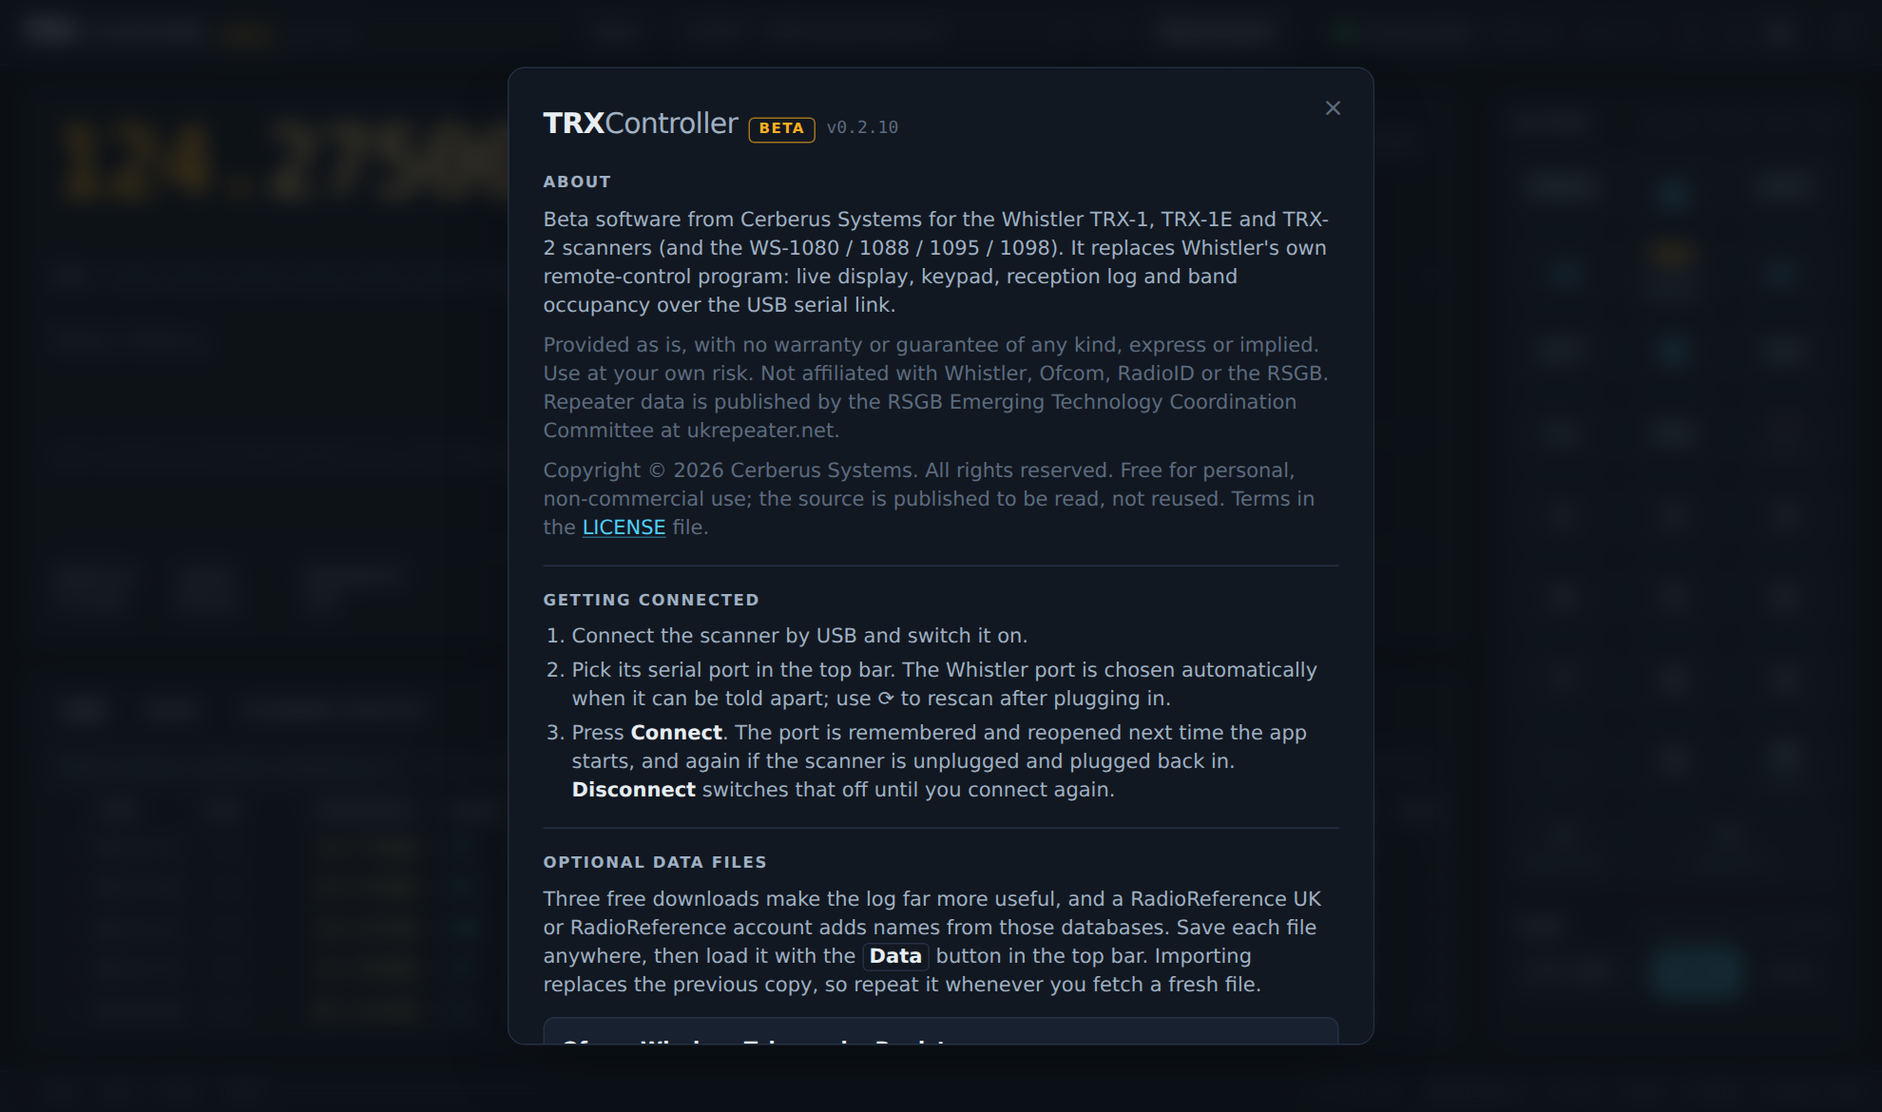
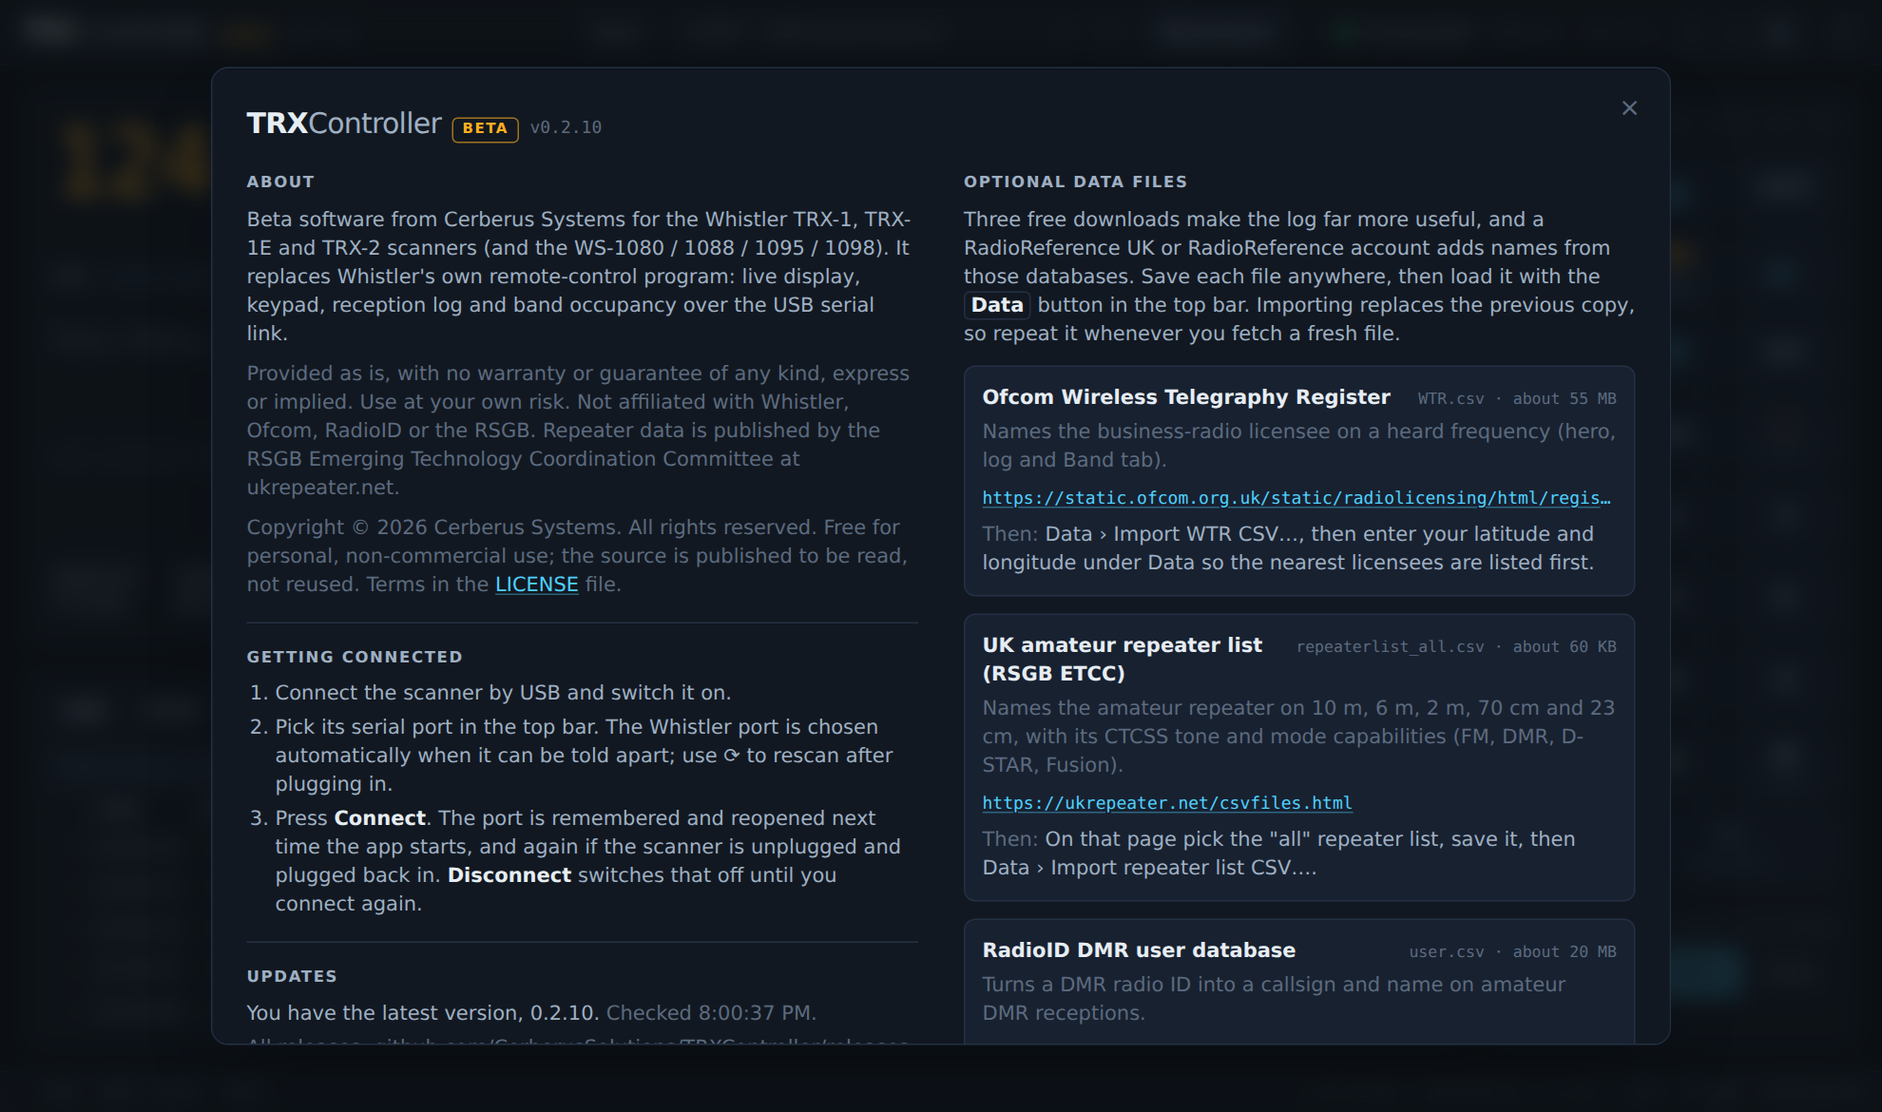
Help screen in two columns so it needs less scrolling
The help dialog is 64rem wide with the sections in two columns like
the Data dialog: About, Getting connected, Updates, Keyboard and the
EZ Scan export on the left, the three data-file cards on the right.
Website help screenshot re-shot.

Claude-Session: https://claude.ai/code/session_015KGVaMSLRV6V5Jci2arzek

Changed region(s): [[0.1232, 0.1538, 0.8934, 0.9538], [0.1232, 0.0923, 0.4621, 0.1538]]

diff --git a/src/renderer/src/components/HelpDialog.tsx b/src/renderer/src/components/HelpDialog.tsx
@@ -80,7 +80,7 @@ export default function HelpDialog() {
         role="dialog"
         aria-modal="true"
         aria-labelledby="help-title"
-        className="relative max-h-[88vh] w-full max-w-[38rem] overflow-y-auto rounded-xl border border-edge bg-panel p-6 text-sm text-ink-2 shadow-2xl"
+        className="relative max-h-[88vh] w-full max-w-[64rem] overflow-y-auto rounded-xl border border-edge bg-panel p-6 text-sm text-ink-2 shadow-2xl"
       >
         <button
           className="absolute top-3 right-3 flex h-8 w-8 items-center justify-center rounded-md text-lg text-ink-3 hover:bg-panel-2 hover:text-ink"
@@ -99,167 +99,171 @@ export default function HelpDialog() {
           {app && <span className="font-mono text-xs text-ink-3">v{app.version}</span>}
         </div>
 
-        <div className="space-y-4">
-          <Section title="About">
-            <p>
-              Beta software from {PUBLISHER} for the Whistler TRX-1, TRX-1E and TRX-2 scanners (and the WS-1080 / 1088 / 1095 / 1098). It
-              replaces Whistler's own remote-control program: live display, keypad, reception log and band occupancy over the USB serial link.
-            </p>
-            <p className="mt-2 text-ink-3">
-              Provided as is, with no warranty or guarantee of any kind, express or implied. Use at your own risk. Not affiliated with Whistler,
-              Ofcom, RadioID or the RSGB. Repeater data is published by the RSGB Emerging Technology Coordination Committee at ukrepeater.net.
-            </p>
-            <p className="mt-2 text-ink-3">
-              Copyright © 2026 {PUBLISHER}. All rights reserved. Free for personal, non-commercial use; the source is published to be read, not
-              reused. Terms in the{' '}
-              <a className="text-cyan underline decoration-cyan/40 underline-offset-2" href={`${REPO_URL}/blob/main/LICENSE`} target="_blank" rel="noreferrer">
-                LICENSE
-              </a>{' '}
-              file.
-            </p>
-          </Section>
+        {/* Two columns, balanced so neither needs much scrolling: the data files, the long one, on the right. */}
+        <div className="grid gap-x-8 gap-y-4 md:grid-cols-2">
+          <div className="space-y-4">
+            <Section title="About">
+              <p>
+                Beta software from {PUBLISHER} for the Whistler TRX-1, TRX-1E and TRX-2 scanners (and the WS-1080 / 1088 / 1095 / 1098). It
+                replaces Whistler's own remote-control program: live display, keypad, reception log and band occupancy over the USB serial link.
+              </p>
+              <p className="mt-2 text-ink-3">
+                Provided as is, with no warranty or guarantee of any kind, express or implied. Use at your own risk. Not affiliated with Whistler,
+                Ofcom, RadioID or the RSGB. Repeater data is published by the RSGB Emerging Technology Coordination Committee at ukrepeater.net.
+              </p>
+              <p className="mt-2 text-ink-3">
+                Copyright © 2026 {PUBLISHER}. All rights reserved. Free for personal, non-commercial use; the source is published to be read, not
+                reused. Terms in the{' '}
+                <a className="text-cyan underline decoration-cyan/40 underline-offset-2" href={`${REPO_URL}/blob/main/LICENSE`} target="_blank" rel="noreferrer">
+                  LICENSE
+                </a>{' '}
+                file.
+              </p>
+            </Section>
 
-          <Section title="Getting connected">
-            <ol className="list-decimal space-y-1 pl-5">
-              <li>Connect the scanner by USB and switch it on.</li>
-              <li>
-                Pick its serial port in the top bar. The Whistler port is chosen automatically when it can be told apart; use ⟳ to rescan after plugging
-                in.
-                {IS_LINUX && (
-                  <>
-                    {' '}
-                    On Linux it appears as <span className="font-mono text-ink">/dev/ttyUSB0</span> or <span className="font-mono text-ink">/dev/ttyACM0</span>, and your
-                    user must be in the <span className="font-mono text-ink">dialout</span> group to open it (<span className="font-mono text-ink">sudo usermod -aG dialout $USER</span>,
-                    then log in again).
-                  </>
-                )}
-              </li>
-              <li>
-                Press <b className="text-ink">Connect</b>. The port is remembered and reopened next time the app starts, and again if the scanner is
-                unplugged and plugged back in. <b className="text-ink">Disconnect</b> switches that off until you connect again.
-              </li>
-            </ol>
-          </Section>
+            <Section title="Getting connected">
+              <ol className="list-decimal space-y-1 pl-5">
+                <li>Connect the scanner by USB and switch it on.</li>
+                <li>
+                  Pick its serial port in the top bar. The Whistler port is chosen automatically when it can be told apart; use ⟳ to rescan after plugging
+                  in.
+                  {IS_LINUX && (
+                    <>
+                      {' '}
+                      On Linux it appears as <span className="font-mono text-ink">/dev/ttyUSB0</span> or <span className="font-mono text-ink">/dev/ttyACM0</span>, and your
+                      user must be in the <span className="font-mono text-ink">dialout</span> group to open it (<span className="font-mono text-ink">sudo usermod -aG dialout $USER</span>,
+                      then log in again).
+                    </>
+                  )}
+                </li>
+                <li>
+                  Press <b className="text-ink">Connect</b>. The port is remembered and reopened next time the app starts, and again if the scanner is
+                  unplugged and plugged back in. <b className="text-ink">Disconnect</b> switches that off until you connect again.
+                </li>
+              </ol>
+            </Section>
 
-          <Section title="Optional data files">
-            <p className="mb-3">
-              Three free downloads make the log far more useful, and a RadioReference UK or RadioReference account adds names from those databases. Save each file anywhere, then load it with the{' '}
-              <b className="rounded border border-edge px-1 py-px text-ink">Data</b> button in the top bar. Importing replaces the previous copy, so
-              repeat it whenever you fetch a fresh file.
-            </p>
-            <ul className="space-y-3">
-              {DATA_SOURCES.map((d) => (
-                <li key={d.file} className="rounded-lg border border-edge bg-panel-2 p-3">
+            <Section title="Updates">
+              {update ? (
+                update.newer ? (
+                  <p>
+                    <b className="text-green">Version {update.latest} is available</b> (you have {update.current}). Download the new{' '}
+                    {IS_LINUX ? 'AppImage (or the .deb from the release page)' : 'installer'} and run it; settings, log and imported data are kept.{' '}
+                    <a className="text-cyan underline decoration-cyan/40 underline-offset-2" href={update.downloadUrl ?? update.url} target="_blank" rel="noreferrer">
+                      {update.downloadUrl ? 'Download ' + (update.downloadUrl.split('/').pop() ?? 'the installer') : 'Open the release page'}
+                    </a>
+                  </p>
+                ) : (
+                  <p>
+                    You have the latest version, {update.current}.
+                    <span className="text-ink-3"> Checked {new Date(update.checkedAt).toLocaleTimeString()}.</span>
+                  </p>
+                )
+              ) : (
+                <p className="text-ink-3">Not checked yet, or GitHub could not be reached. The app looks shortly after launch and every six hours.</p>
+              )}
+              <p className="mt-1 text-ink-3">
+                All releases:{' '}
+                <a className="underline decoration-ink-3/40 underline-offset-2" href="https://github.com/CerberusSolutions/TRXController/releases" target="_blank" rel="noreferrer">
+                  github.com/CerberusSolutions/TRXController/releases
+                </a>
+              </p>
+            </Section>
+
+            <Section title="Keyboard and tuning">
+              <p>
+                The keypad follows the keyboard while the scanner is connected: arrow keys, <kbd className="font-mono text-ink">Enter</kbd> for SEL,{' '}
+                <kbd className="font-mono text-ink">Esc</kbd> for MENU, <kbd className="font-mono text-ink">0-9</kbd> and{' '}
+                <kbd className="font-mono text-ink">.</kbd>. Hover a key for its shortcut.
+              </p>
+              <p className="mt-2">
+                Click a bar on the Band tab, a frequency in the log, or type one into the Tune box under the keypad, and the app walks the
+                scanner's own menus (Searches › Tune Mode) to tune there. <b className="text-ink">Scan</b> takes it back to scanning.
+              </p>
+            </Section>
+
+            <Section title="Log export for EZ Scan">
+              <p>
+                The log's <b className="text-ink">CSV</b> button writes a file Whistler's EZ Scan imports as conventional objects (its CSV import):
+                one object per frequency and tone or colour code, named from the log (16 characters, EZ Scan's limit), with the mode, tone or
+                NAC, colour code and slot filled in and no scanlist ticked, so a session's finds go into the scanner without retyping. The log's
+                own columns (times, sources, distance, candidates) follow EZ Scan's and are ignored by its importer.
+              </p>
+            </Section>
+          </div>
+          <div className="space-y-4">
+            <Section title="Optional data files">
+              <p className="mb-3">
+                Three free downloads make the log far more useful, and a RadioReference UK or RadioReference account adds names from those databases. Save each file anywhere, then load it with the{' '}
+                <b className="rounded border border-edge px-1 py-px text-ink">Data</b> button in the top bar. Importing replaces the previous copy, so
+                repeat it whenever you fetch a fresh file.
+              </p>
+              <ul className="space-y-3">
+                {DATA_SOURCES.map((d) => (
+                  <li key={d.file} className="rounded-lg border border-edge bg-panel-2 p-3">
+                    <div className="flex items-baseline justify-between gap-3">
+                      <span className="font-semibold text-ink">{d.title}</span>
+                      <span className="shrink-0 font-mono text-[11px] text-ink-3">
+                        {d.file} · {d.size}
+                      </span>
+                    </div>
+                    <p className="mt-1 text-ink-3">{d.gives}</p>
+                    <a
+                      className="mt-2 block truncate font-mono text-xs text-cyan underline decoration-cyan/40 underline-offset-2 hover:decoration-cyan"
+                      href={d.url}
+                      target="_blank"
+                      rel="noreferrer"
+                      title="Opens in your browser"
+                    >
+                      {d.url}
+                    </a>
+                    <p className="mt-2">
+                      <span className="text-ink-3">Then: </span>
+                      {d.then}
+                    </p>
+                  </li>
+                ))}
+                <li className="rounded-lg border border-edge bg-panel-2 p-3">
                   <div className="flex items-baseline justify-between gap-3">
-                    <span className="font-semibold text-ink">{d.title}</span>
-                    <span className="shrink-0 font-mono text-[11px] text-ink-3">
-                      {d.file} · {d.size}
-                    </span>
+                    <span className="font-semibold text-ink">RadioReference UK (online)</span>
+                    <a className="shrink-0 font-mono text-[11px] text-cyan underline decoration-cyan/40 underline-offset-2" href="https://radioreferenceuk.co.uk/" target="_blank" rel="noreferrer">
+                      radioreferenceuk.co.uk
+                    </a>
                   </div>
-                  <p className="mt-1 text-ink-3">{d.gives}</p>
-                  <a
-                    className="mt-2 block truncate font-mono text-xs text-cyan underline decoration-cyan/40 underline-offset-2 hover:decoration-cyan"
-                    href={d.url}
-                    target="_blank"
-                    rel="noreferrer"
-                    title="Opens in your browser"
-                  >
-                    {d.url}
-                  </a>
+                  <p className="mt-1 text-ink-3">
+                    The UK-centric, Ofcom-backed database: licensee, place, distance and the colour code or tone for business channels near you, as
+                    frequencies are heard. Results are cached, so each frequency is asked about once a month.
+                  </p>
                   <p className="mt-2">
                     <span className="text-ink-3">Then: </span>
-                    {d.then}
+                    Generate an API key in your RRUK account dashboard and enter it under Data › RadioReference UK, then press Test. Lookups need a
+                    location (or a postcode) under Data, and use the radius as the search range. The key is yours alone and is stored encrypted.
                   </p>
                 </li>
-              ))}
-              <li className="rounded-lg border border-edge bg-panel-2 p-3">
-                <div className="flex items-baseline justify-between gap-3">
-                  <span className="font-semibold text-ink">RadioReference UK (online)</span>
-                  <a className="shrink-0 font-mono text-[11px] text-cyan underline decoration-cyan/40 underline-offset-2" href="https://radioreferenceuk.co.uk/" target="_blank" rel="noreferrer">
-                    radioreferenceuk.co.uk
-                  </a>
-                </div>
-                <p className="mt-1 text-ink-3">
-                  The UK-centric, Ofcom-backed database: licensee, place, distance and the colour code or tone for business channels near you, as
-                  frequencies are heard. Results are cached, so each frequency is asked about once a month.
-                </p>
-                <p className="mt-2">
-                  <span className="text-ink-3">Then: </span>
-                  Generate an API key in your RRUK account dashboard and enter it under Data › RadioReference UK, then press Test. Lookups need a
-                  location (or a postcode) under Data, and use the radius as the search range. The key is yours alone and is stored encrypted.
-                </p>
-              </li>
-              <li className="rounded-lg border border-edge bg-panel-2 p-3">
-                <div className="flex items-baseline justify-between gap-3">
-                  <span className="font-semibold text-ink">RadioReference (online)</span>
-                  <span className="shrink-0 font-mono text-[11px] text-ink-3">premium account</span>
-                </div>
-                <p className="mt-1 text-ink-3">
-                  Names trunked systems, sites and talkgroups, and conventional channels, from the RadioReference database as frequencies are
-                  heard. Results are cached, so each frequency is asked about once a month.
-                </p>
-                <p className="mt-2">
-                  <span className="text-ink-3">Then: </span>
-                  Data › RadioReference: enter your radioreference.com username and password (a premium subscription is required for API access)
-                  and pick your country and region. The password is stored encrypted for your account only.
-                </p>
-              </li>
-            </ul>
-          </Section>
-
-          <Section title="Updates">
-            {update ? (
-              update.newer ? (
-                <p>
-                  <b className="text-green">Version {update.latest} is available</b> (you have {update.current}). Download the new{' '}
-                  {IS_LINUX ? 'AppImage (or the .deb from the release page)' : 'installer'} and run it; settings, log and imported data are kept.{' '}
-                  <a className="text-cyan underline decoration-cyan/40 underline-offset-2" href={update.downloadUrl ?? update.url} target="_blank" rel="noreferrer">
-                    {update.downloadUrl ? 'Download ' + (update.downloadUrl.split('/').pop() ?? 'the installer') : 'Open the release page'}
-                  </a>
-                </p>
-              ) : (
-                <p>
-                  You have the latest version, {update.current}.
-                  <span className="text-ink-3"> Checked {new Date(update.checkedAt).toLocaleTimeString()}.</span>
-                </p>
-              )
-            ) : (
-              <p className="text-ink-3">Not checked yet, or GitHub could not be reached. The app looks shortly after launch and every six hours.</p>
-            )}
-            <p className="mt-1 text-ink-3">
-              All releases:{' '}
-              <a className="underline decoration-ink-3/40 underline-offset-2" href="https://github.com/CerberusSolutions/TRXController/releases" target="_blank" rel="noreferrer">
-                github.com/CerberusSolutions/TRXController/releases
-              </a>
-            </p>
-          </Section>
-
-          <Section title="Keyboard and tuning">
-            <p>
-              The keypad follows the keyboard while the scanner is connected: arrow keys, <kbd className="font-mono text-ink">Enter</kbd> for SEL,{' '}
-              <kbd className="font-mono text-ink">Esc</kbd> for MENU, <kbd className="font-mono text-ink">0-9</kbd> and{' '}
-              <kbd className="font-mono text-ink">.</kbd>. Hover a key for its shortcut.
-            </p>
-            <p className="mt-2">
-              Click a bar on the Band tab, a frequency in the log, or type one into the Tune box under the keypad, and the app walks the
-              scanner's own menus (Searches › Tune Mode) to tune there. <b className="text-ink">Scan</b> takes it back to scanning.
-            </p>
-          </Section>
-
-          <Section title="Log export for EZ Scan">
-            <p>
-              The log's <b className="text-ink">CSV</b> button writes a file Whistler's EZ Scan imports as conventional objects (its CSV import):
-              one object per frequency and tone or colour code, named from the log (16 characters, EZ Scan's limit), with the mode, tone or
-              NAC, colour code and slot filled in and no scanlist ticked, so a session's finds go into the scanner without retyping. The log's
-              own columns (times, sources, distance, candidates) follow EZ Scan's and are ignored by its importer.
-            </p>
-          </Section>
-
-          <p className="border-t border-edge pt-3 text-[11px] text-ink-3">
-            Log and imported data live in {DATA_DIR}. Open this screen again any time with the ? button in the top bar.
-            {MOD_KEY}+Shift+D shows diagnostics (the raw display bytes on the Scanner display tab).
-          </p>
+                <li className="rounded-lg border border-edge bg-panel-2 p-3">
+                  <div className="flex items-baseline justify-between gap-3">
+                    <span className="font-semibold text-ink">RadioReference (online)</span>
+                    <span className="shrink-0 font-mono text-[11px] text-ink-3">premium account</span>
+                  </div>
+                  <p className="mt-1 text-ink-3">
+                    Names trunked systems, sites and talkgroups, and conventional channels, from the RadioReference database as frequencies are
+                    heard. Results are cached, so each frequency is asked about once a month.
+                  </p>
+                  <p className="mt-2">
+                    <span className="text-ink-3">Then: </span>
+                    Data › RadioReference: enter your radioreference.com username and password (a premium subscription is required for API access)
+                    and pick your country and region. The password is stored encrypted for your account only.
+                  </p>
+                </li>
+              </ul>
+            </Section>
+          </div>
         </div>
+
+        <p className="mt-4 border-t border-edge pt-3 text-[11px] text-ink-3">
+          Log and imported data live in {DATA_DIR}. Open this screen again any time with the ? button in the top bar.
+          {MOD_KEY}+Shift+D shows diagnostics (the raw display bytes on the Scanner display tab).
+        </p>
       </div>
     </div>
   );
